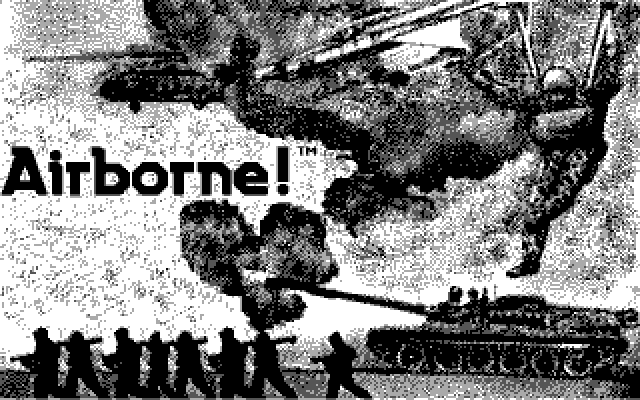
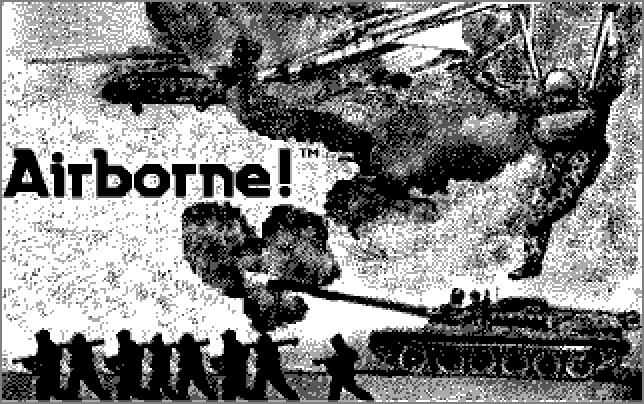
docs: captioned Airborne screenshots and Mermaid diagrams of the link
- Airborne screenshots get a grey border and an italic caption each, in an HTML table
- The main README's ASCII sketch becomes two Mermaid diagrams: the parts and the round trip

diff --git a/apps/airborne/README.md b/apps/airborne/README.md
@@ -10,8 +10,18 @@ the game logic, the sprites, the sound, the pictures). None of the
 original's data is in this repo: `tools/mkdat.py` makes `AIRBORNE.DAT` from
 those files on this laptop.
 
-![Title](screenshots/title.png)
-![Level 10](screenshots/level10.png)
+<table>
+  <tr>
+    <td align="center" width="50%">
+      <img src="screenshots/title.png" alt="Title" width="400"><br>
+      <em>The title screen and high scores</em>
+    </td>
+    <td align="center" width="50%">
+      <img src="screenshots/level10.png" alt="Level 10" width="400"><br>
+      <em>Level 10: helicopters and paratroopers</em>
+    </td>
+  </tr>
+</table>
 
 ## Not on GitHub
 
@@ -101,12 +111,48 @@ G shells, S the song, I instructions (the original's five pages, then the PCjr k
 DOSBox (`lib/emu.sh`, `/KEYS:PPEPIPIIIIIPXX` for the menus, `/DEMO` with
 `/SHOT` for the game), shown at 2x:
 
-| | |
-|---|---|
-| ![Presents](screenshots/presents.png) | ![Box](screenshots/box.png) |
-| ![Title](screenshots/title.png) | ![Credits](screenshots/credits.png) |
-| ![PCjr keys](screenshots/pcjr-keys.png) | ![Level 1](screenshots/level1.png) |
-| ![Level 5](screenshots/level5.png) | ![Level 10](screenshots/level10.png) |
+<table>
+  <tr>
+    <td align="center" width="50%">
+      <img src="screenshots/presents.png" alt="Presents" width="400"><br>
+      <em>Silicon Beach Software presents</em>
+    </td>
+    <td align="center" width="50%">
+      <img src="screenshots/box.png" alt="Box picture" width="400"><br>
+      <em>The box picture, while the startup song plays</em>
+    </td>
+  </tr>
+  <tr>
+    <td align="center" width="50%">
+      <img src="screenshots/title.png" alt="Title" width="400"><br>
+      <em>The title screen, menu and high scores</em>
+    </td>
+    <td align="center" width="50%">
+      <img src="screenshots/credits.png" alt="Credits" width="400"><br>
+      <em>The original's credits page</em>
+    </td>
+  </tr>
+  <tr>
+    <td align="center" width="50%">
+      <img src="screenshots/pcjr-keys.png" alt="PCjr keys" width="400"><br>
+      <em>The PCjr keys, the last instructions page</em>
+    </td>
+    <td align="center" width="50%">
+      <img src="screenshots/level1.png" alt="Level 1" width="400"><br>
+      <em>Level 1: the first helicopters</em>
+    </td>
+  </tr>
+  <tr>
+    <td align="center" width="50%">
+      <img src="screenshots/level5.png" alt="Level 5" width="400"><br>
+      <em>Level 5: paratroopers coming down</em>
+    </td>
+    <td align="center" width="50%">
+      <img src="screenshots/level10.png" alt="Level 10" width="400"><br>
+      <em>Level 10: troopers landing by the cactus</em>
+    </td>
+  </tr>
+</table>
 
 ## Status (2026-10-27)
 

diff --git a/README.md b/README.md
@@ -14,9 +14,44 @@ The PCjr is a 4.77 MHz 8088 with 16 colors, a three-voice sound chip, and no net
 
 **[The software wasn't there](docs/ESSAY.md):** a short note on what this says about 1984, and about today.
 
+```mermaid
+flowchart LR
+    subgraph JR["IBM PCjr, 1984"]
+        C["CODEJR.EXE<br/>DOS client"]
+        D[("C:\CODEJR\PROGS")]
+    end
+    M["WiFi modem<br/>Zimodem"]
+    subgraph PC["Modern machine"]
+        S["codejr<br/>Go server"]
+        A["claude -p<br/>headless Claude Code"]
+        W["Open Watcom<br/>8088 compiler"]
+        E["DOSBox<br/>emulated PCjr"]
+    end
+    C <-->|"serial port<br/>37287 baud"| M
+    M <-->|"WiFi, TCP 4860"| S
+    C --> D
+    S <--> A
+    S --> W
+    S --> E
 ```
-PCjr ──serial── WiFi modem ──TCP 4860── codejr (Go server on a modern machine)
-                                          └─ claude -p (headless Claude Code)
+
+Asking for a program, from the PCjr's keyboard:
+
+```mermaid
+sequenceDiagram
+    participant J as PCjr
+    participant S as Go server
+    participant C as Claude
+    J->>S: "write me a Lemmings game"
+    S->>C: the request
+    C->>S: code, then build and test in the emulator
+    S->>J: the program, in compressed bursts
+    C->>S: run it on the PCjr, press keys
+    S->>J: run, keys
+    J->>S: log and a picture of the screen
+    S->>C: what happened
+    C->>S: fixes, sent as changes only
+    S->>J: the changed parts
 ```
 
 The server keeps the chat going, runs Claude in a workspace folder, compiles what Claude writes with Open Watcom, tests it in an emulated PCjr, and sends the result down the line to `C:\CODEJR\PROGS`. Claude can also run the program on the real machine, press keys for it, read its log and look at a picture of its screen, so it can fix what the emulator got wrong.

diff --git a/docs/JOURNAL.md b/docs/JOURNAL.md
@@ -1132,3 +1132,5 @@ Sound. The song plays as real samples through SAY's player (`splayer.asm` includ
 
 **AIRBORNE to GitHub, without the original's code (2026-10-27).** Steve: "this airborne thing's done and works. why don't you take screenshots and push what we can to the GitHub repo? But if there's like proprietary code, just don't push that." `game.c` and `game.h` are the original's 68000 code translated routine by routine, so they are Silicon Beach's code in C: they moved to `~/.local/share/codejr/airborne/port/` (next to the disk's files) and `build.sh` symlinks them in, gitignored. The data (`AIRBORNE.DAT`, `AIRSONG.SND`) and the EXE were already ignored. What went up: the PCjr front end, the blitters, the tools, the test harness, and eight DOSBox screenshots in `apps/airborne/screenshots/`. For the menus `/KEYS:` got a P (save the screen as SHOTn.PPM); the first try with a space in the script failed because DOS split the argument in two, so E stood in for it.
 
+
+**READMEs: captions and a diagram (2026-10-27).** Steve, looking at the repo on GitHub: the Airborne screenshots bled together, and the paragraph about the link wanted a diagram. GitHub drops CSS in READMEs, so the screenshots got a 2-pixel grey border baked into the PNGs and went into an HTML table with an italic caption under each. The ASCII sketch at the top of the main README became two Mermaid diagrams (GitHub renders them): the parts (PCjr, WiFi modem, Go server, Claude, compiler, emulator) and the round trip of asking for a program. Not checked in a Mermaid renderer here (npx was not allowed), so the first look is on GitHub.
